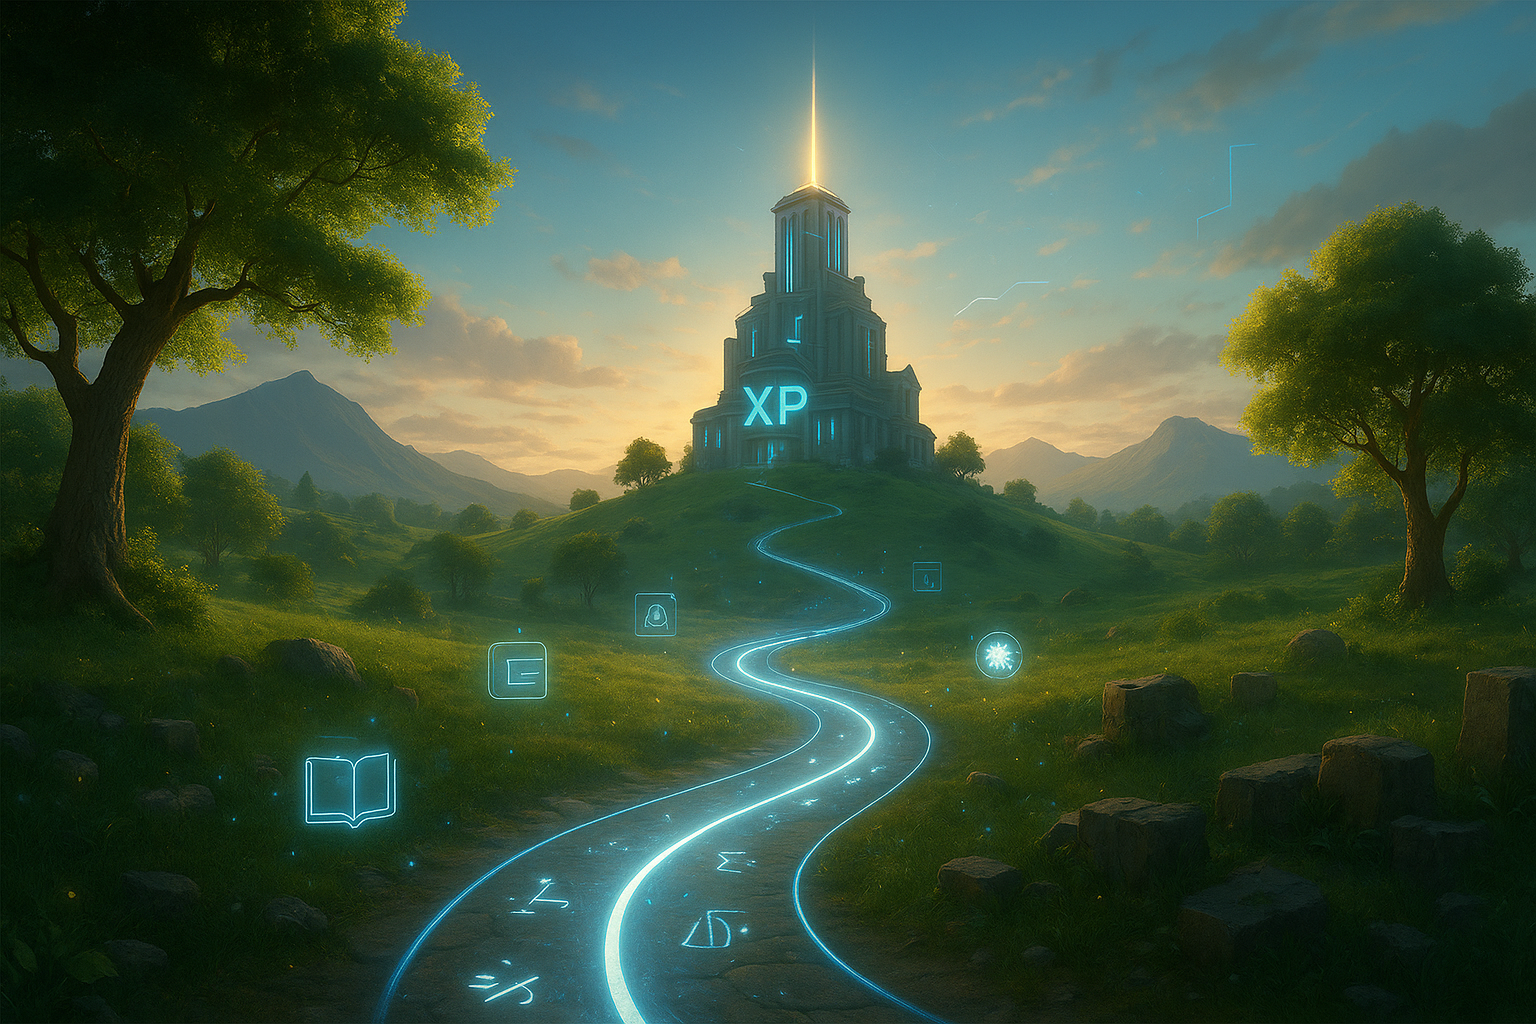
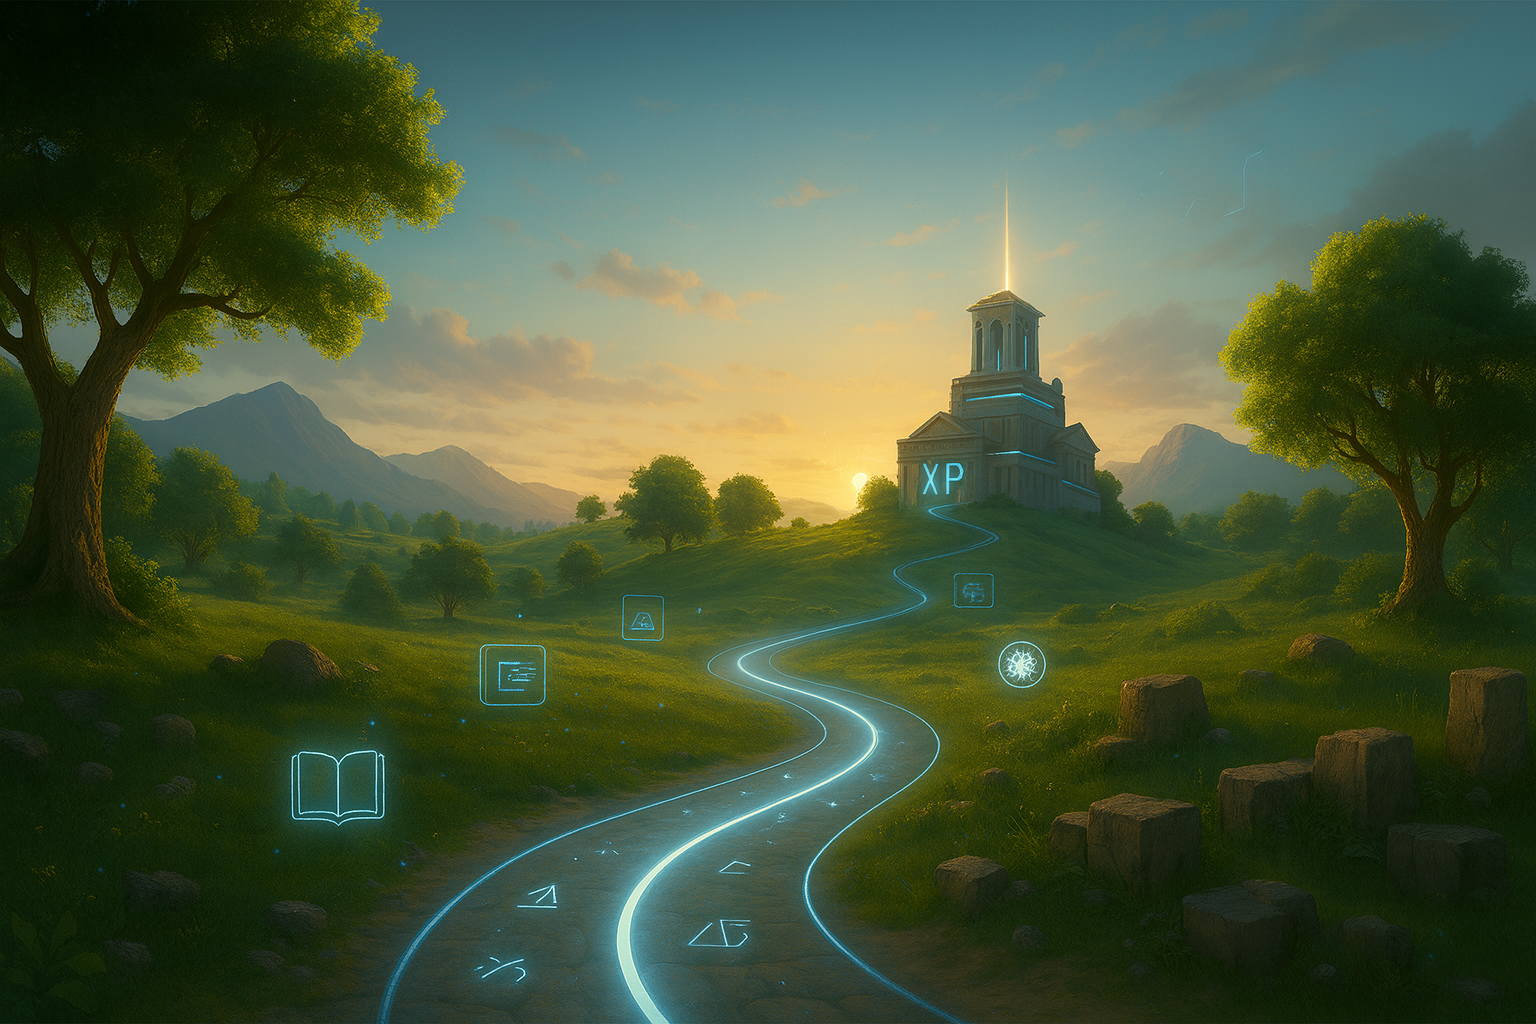
Redesign landing page hero, navbar, and footer
Updated hero section with new background, typography, and removed 'Coming soon' and 'Get Started' button. Refactored NavBar to be fixed, add logo, styled nav links, and improved layout. Simplified Footer by removing background gradients. Added new hero background image and updated global styles for improved appearance and font.

diff --git a/src/components/landing/NavBar.tsx b/src/components/landing/NavBar.tsx
@@ -7,34 +7,54 @@ const NavBar = () => {
   const router = useRouter();
 
   return (
-    <header className="absolute">
-      <div className="logo-container">
-        <Image
-          src="/assets/img/acadxp-logo.png"
-          alt="Logo"
-          width={50}
-          height={50}
-        />
-      </div>
+    <header className="fixed top-0 left-0 right-0 z-20">
+      <div className="mx-auto max-w-6xl px-6 py-4 flex items-center justify-between">
+        {/* Left: Logo */}
+        <Link href="/" className="flex items-center gap-3">
+          <Image
+            src="/assets/img/acadxp-logo.png"
+            alt="AcadXP"
+            width={40}
+            height={40}
+          />
+          <span className="text-white press-start-2p-regular">AcadXP</span>
+        </Link>
 
-      <nav>
-        <ul>
-          <li>
-            <a href="#home">Home</a>
-          </li>
-          <li>
-            <a href="#about">About</a>
-          </li>
-          <li>
-            <a href="#features">Features</a>
-          </li>
-          <li>
-            <a href="#pricing">Pricing</a>
-          </li>
-        </ul>
-      </nav>
-      <div className="auth-buttons">
-        <Link href="/login">Get Started</Link>
+        {/* Center: Nav links inside pill */}
+        <nav className="hidden md:block">
+          <ul className="flex items-center gap-6 rounded-full border border-white/10 bg-white/5 px-5 py-2 text-sm text-zinc-200 shadow-[0_0_20px_rgba(168,85,247,0.25)]">
+            <li>
+              <a href="#home" className="hover:text-white transition">
+                Home
+              </a>
+            </li>
+            <li>
+              <a href="#about" className="hover:text-white transition">
+                About
+              </a>
+            </li>
+            <li>
+              <a href="#features" className="hover:text-white transition">
+                Features
+              </a>
+            </li>
+            <li>
+              <a href="#pricing" className="hover:text-white transition">
+                Pricing
+              </a>
+            </li>
+          </ul>
+        </nav>
+
+        {/* Right: Auth buttons */}
+        <div className="flex items-center gap-3">
+          <Link
+            href="/start"
+            className="rounded-full bg-gradient-to-r from-purple-500 to-fuchsia-600 px-4 py-2 text-sm text-white shadow-[0_10px_30px_rgba(168,85,247,0.35)] hover:opacity-90 transition"
+          >
+            Get Started
+          </Link>
+        </div>
       </div>
     </header>
   );

diff --git a/src/components/landing/Hero.tsx b/src/components/landing/Hero.tsx
@@ -48,24 +48,13 @@ const Hero = () => {
 
   return (
     <section className="hero-section max-h-screen  flex flex-col items-center justify-center px-4 py-20 text-white">
-      <p className="mb-5 bg-purple-900 p-2 rounded-4xl text-center">
-        Coming soon!!!
-      </p>
-      <h1 className="text-4xl sm:text-6xl font-bold text-center bg-gradient-to-r from-white to-zinc-300 bg-clip-text text-transparent my-2">
+      <h1 className="text-4xl press-start-2p-regular sm:text-6xl font-bold text-center my-2">
         Turn Your Degree into a Game
       </h1>
-      <p className="max-w-xl text-center text-lg text-zinc-400 my-2">
+      <p className="max-w-xl text-center text-xl text-white my-2">
         Experience a new way to learn: track your progress, earn rewards, and
         level up your academic journey with AcadXP.
       </p>
-
-      {/* Get Started Button */}
-      <Link
-        href="/start"
-        className="mt-8 inline-flex align-middle px-8 py-4 bg-gradient-to-r from-purple-500 to-fuchsia-600 text-white rounded-lg font-medium hover:opacity-90 transition shadow-[0_0_20px_rgba(168,85,247,0.5)]"
-      >
-        Get Started
-      </Link>
 
       {/* Waitlist Form */}
       <form

diff --git a/src/styles/globals.css b/src/styles/globals.css
@@ -11,7 +11,31 @@
   }
 
   .hero-section {
-    background: rgba(0, 0, 0, 0.5) url("../../public/assets/img/hero-bg.png");
+    /* Use your provided hero image with a subtle dark gradient overlay */
+    /* Use your provided hero image with a lighter gradient overlay */
+    background: radial-gradient(
+        800px 400px at 10% 0%,
+        rgba(124, 58, 237, 0.2) 0%,
+        rgba(124, 58, 237, 0) 60%
+      ),
+      radial-gradient(
+        800px 400px at 90% 0%,
+        rgba(236, 72, 153, 0.14) 0%,
+        rgba(236, 72, 153, 0) 60%
+      ),
+      linear-gradient(
+        180deg,
+        rgba(7, 7, 12, 0.55) 0%,
+        rgba(10, 10, 16, 0.5) 50%,
+        rgba(7, 7, 12, 0.55) 100%
+      ),
+      url("../../public/assets/img/hero-bg.png");
+    background-size: cover;
+    background-position: center;
+    background-repeat: no-repeat;
+    position: relative;
+    min-height: 100vh;
+    padding-top: 88px; /* offset for fixed navbar */
   }
 }
 
@@ -140,6 +164,11 @@
 
   .animate-glow {
     animation: glow 2s ease-in-out infinite alternate;
+  }
+  .press-start-2p-regular {
+    font-family: "Press Start 2P", system-ui;
+    font-weight: 400;
+    font-style: normal;
   }
 }
 

diff --git a/src/components/landing/Footer.tsx b/src/components/landing/Footer.tsx
@@ -43,12 +43,7 @@ const Footer = () => {
 
   return (
     <footer className="flex flex-col text-white bg-gradient-to-b from-gray-900 via-slate-900 to-zinc-900 relative">
-      <div className="absolute inset-0 opacity-60 pointer-events-none overflow-hidden">
-        <div className="absolute top-0 -left-20 w-[550px] h-[550px] bg-gradient-to-br from-indigo-500/45 via-fuchsia-500/25 to-purple-500/25 rounded-full blur-3xl animate-gradient-move" />
-        <div className="absolute bottom-0 -right-20 w-[550px] h-[550px] bg-gradient-to-br from-cyan-400/30 via-blue-500/25 to-emerald-400/25 rounded-full blur-3xl animate-gradient-move-reverse" />
-        <div className="absolute top-1/3 left-1/2 w-[800px] h-[800px] -translate-x-1/2 bg-gradient-radial from-fuchsia-500/10 via-transparent to-transparent rounded-full blur-2xl animate-pulse-slow" />
-      </div>
-      <div className=" mx-auto px-6 py-8 border-t border-white/20">
+      <div className=" mx-auto px-6 py-8">
         <div className="grid grid-cols-1 md:grid-cols-3 gap-8">
           <div className="space-y-4">
             <div className="flex items-center space-x-2">
